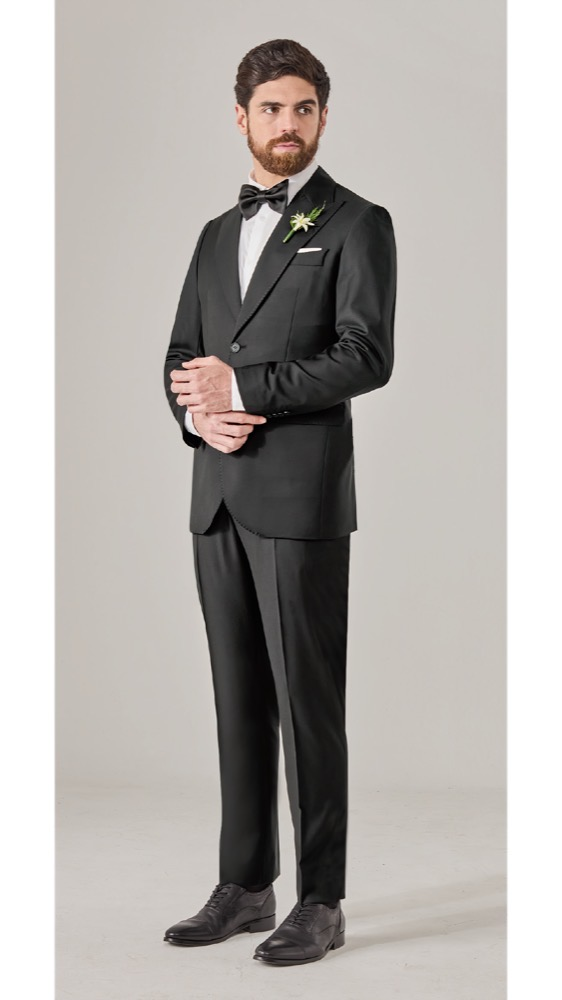
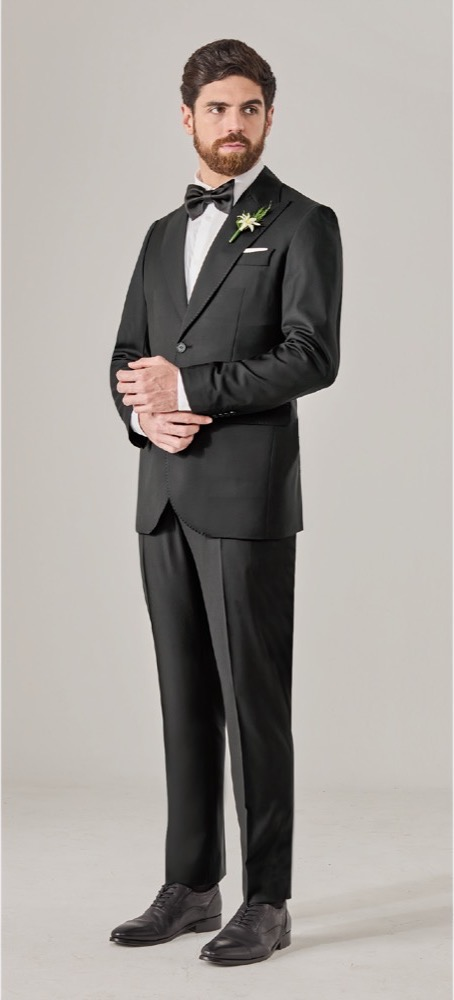
Una URL por sección, textos con los términos que se buscan y bloque más corto
Rutas (el cambio de mayor peso para SEO)
La web es de una sola página, así que Google solo podía posicionar una URL:
todo el contenido de Telas, Novios o Camisas no competía por nada. Ahora cada
sección tiene dirección propia —/telas, /trajes-de-novio, /camisas-a-medida…—
y el middleware sirve el HTML ya con su <title>, su descripción y su canonical
reescritos con HTMLRewriter, sin depender de que el rastreador ejecute JS.
El script abre la sección que pide la URL y responde al botón «atrás».

Dos defectos que esto arregla de paso:
- /robots.txt devolvía la portada entera con content-type text/html. Ahora hay
  robots.txt y sitemap.xml de verdad.
- Cualquier ruta inventada respondía 200 con la portada: contenido duplicado en
  infinitas direcciones. Ahora es 404, y /telas/ e /index.html redirigen 301.

Textos
Los H1 de las páginas interiores eran etiquetas internas —«Telas», «Camisas»,
«Corporativo»—, que no es lo que nadie escribe en un buscador. Reescritos los
ocho con el término y la ciudad. La frase emocional de Novios no se pierde:
baja al primer párrafo, que es donde funciona.

El bloque de A medida
A dos columnas la ficha vertical se iba a 630x840 px por foto y la sección se
hacía interminable. Con la foto al costado la tarjeta mide 560x380 y la prenda
se sigue viendo entera.

Las fotos
Las cuatro traje-*.jpg traían franjas blancas de 54 a 75 px a cada lado, que
se veían como un marco sucio dentro de cada tarjeta. Recortadas en origen.

diff --git a/index.html b/index.html
@@ -419,6 +419,30 @@ h1, h2, h3, h4 {
 .tarjeta-cta::after { content: "→"; transition: transform 0.3s var(--ease); }
 .tarjeta:hover .tarjeta-cta::after { transform: translateX(5px); }
 
+/* ---------- Tarjeta horizontal ----------
+   A dos columnas, una ficha vertical de proporción 3/4 se va a 630×840 px y
+   la sección se hace interminable. Con la foto al costado el mismo contenido
+   ocupa menos de la mitad de alto y la prenda se sigue viendo entera. */
+.duo {
+  display: grid; grid-template-columns: minmax(130px, 36%) 1fr; overflow: hidden;
+  background: var(--papel); border: 1px solid var(--filete);
+  min-height: clamp(280px, 30vw, 380px); cursor: pointer;
+  transition: border-color 0.35s var(--ease);
+}
+.duo:hover { border-color: var(--azul-bruma); }
+.duo-img { position: relative; overflow: hidden; background: var(--nube); }
+.duo-img img { position: absolute; inset: 0; width: 100%; height: 100%; object-fit: cover; object-position: 50% 26%; transition: transform 0.9s var(--ease); }
+.duo:hover .duo-img img { transform: scale(1.05); }
+.duo-txt { padding: clamp(1.4rem, 3vw, 2.25rem); display: flex; flex-direction: column; justify-content: center; }
+.duo-txt h3 { font-family: var(--display); font-weight: 400; font-size: 1.05rem; letter-spacing: 0.11em; text-transform: uppercase; color: var(--azul); }
+.duo-txt p { font-size: 0.86rem; font-weight: 300; color: var(--grafito); line-height: 1.75; margin-top: 0.6rem; }
+.duo-txt .enlace { margin-top: var(--e3); }
+@media (max-width: 560px) {
+  .duo { grid-template-columns: 1fr; min-height: 0; }
+  .duo-img { aspect-ratio: 4/3; }
+  .duo-img img { object-position: 50% 22%; }
+}
+
 /* ---------- Franja de medios de pago ---------- */
 .pago { display: flex; flex-wrap: wrap; align-items: center; justify-content: center; gap: 0.7rem clamp(1rem, 3vw, 2.25rem); }
 .pago b { font-family: var(--display); font-weight: 400; font-size: 0.72rem; letter-spacing: 0.24em; text-transform: uppercase; color: var(--blanco); }
@@ -1313,7 +1337,7 @@ h1, h2, h3, h4 {
     <div class="caja">
       <div class="miga"><span data-ir="inicio">Inicio</span> · A medida</div>
       <span class="rotulo">El oficio</span>
-      <h1 class="t-hero">A medida</h1>
+      <h1 class="t-hero">Sastrería a medida en Lima</h1>
       <p class="lead medida" style="margin-top:1.25rem;">No adaptamos una talla: construimos la prenda. Desde 1982, cada traje y cada camisa que sale de nuestro taller nace de un patrón hecho sobre las medidas de una sola persona.</p>
       <div class="acciones" style="margin-top:2rem;">
         <a class="btn btn-claro" href="https://wa.me/51959370397" target="_blank" rel="noopener">Agenda tu cita</a>
@@ -1357,26 +1381,26 @@ h1, h2, h3, h4 {
     <div class="caja">
       <div class="enc">
         <span class="rotulo">Las prendas</span>
-        <h2 class="t-xl">Qué confeccionamos a medida</h2>
+        <h2 class="t-xl">Ternos y camisas a medida</h2>
         <p class="lead" style="margin-top:1rem;">Dos oficios distintos bajo el mismo techo. Cada uno con su patrón, sus pruebas y sus decisiones.</p>
       </div>
       <div class="rejilla r2">
-        <article class="ficha rev" data-ir="trajes">
-          <div class="ficha-img"><img src="assets/traje-negro.jpg" alt="Traje a medida" loading="lazy"></div>
-          <div class="ficha-cuerpo doble-filete">
-            <h3>Trajes</h3>
+        <a class="duo rev" data-ir="trajes">
+          <div class="duo-img"><img src="assets/traje-negro.jpg" alt="Terno negro a medida con solapa de pico" loading="lazy"></div>
+          <div class="duo-txt">
+            <h3>Ternos y trajes</h3>
             <p>De dos y tres piezas, para la oficina, una ocasión o una gala. Esmóquines y chaqués incluidos.</p>
-            <span class="enlace" style="margin-top:0.6rem;">Ver trajes</span>
+            <span class="enlace">Ver ternos</span>
           </div>
-        </article>
-        <article class="ficha rev" data-d="1" data-ir="camisas">
-          <div class="ficha-img"><img src="assets/traje-gris.jpg" alt="Camisa a medida" loading="lazy"></div>
-          <div class="ficha-cuerpo doble-filete">
+        </a>
+        <a class="duo rev" data-d="1" data-ir="camisas">
+          <div class="duo-img"><img src="assets/traje-gris.jpg" alt="Camisa a medida bajo saco gris perla" loading="lazy"></div>
+          <div class="duo-txt">
             <h3>Camisas</h3>
             <p>Cuello, puño y silueta definidos contigo. La prenda que más contacto tiene con tu piel.</p>
-            <span class="enlace" style="margin-top:0.6rem;">Ver camisas</span>
+            <span class="enlace">Ver camisas</span>
           </div>
-        </article>
+        </a>
       </div>
     </div>
   </section>
@@ -1432,7 +1456,7 @@ h1, h2, h3, h4 {
     <div class="caja">
       <div class="miga"><span data-ir="inicio">Inicio</span> · <span data-ir="medida">A medida</span> · Trajes</div>
       <span class="rotulo">La prenda insignia</span>
-      <h1 class="t-hero">Trajes a medida</h1>
+      <h1 class="t-hero">Ternos y trajes a medida</h1>
       <p class="lead medida" style="margin-top:1.25rem;">De dos o tres piezas, para la oficina, una ocasión o una gala. Diseñados sobre tus medidas, tus gustos y la tela que elijas con nuestros sastres.</p>
     </div>
   </section>
@@ -1497,7 +1521,7 @@ h1, h2, h3, h4 {
     <div class="caja">
       <div class="miga"><span data-ir="inicio">Inicio</span> · <span data-ir="medida">A medida</span> · Camisas</div>
       <span class="rotulo">A medida</span>
-      <h1 class="t-hero">Camisas</h1>
+      <h1 class="t-hero">Camisas a medida en Lima</h1>
       <p class="lead medida" style="margin-top:1.25rem;">La prenda que está en contacto con tu piel todo el día merece un patrón propio. Cuello, puño y silueta se definen contigo.</p>
     </div>
   </section>
@@ -1548,7 +1572,7 @@ h1, h2, h3, h4 {
     <div class="caja">
       <div class="miga"><span data-ir="inicio">Inicio</span> · Telas</div>
       <span class="rotulo">Distribuidores oficiales</span>
-      <h1 class="t-hero">Telas</h1>
+      <h1 class="t-hero">Telas para ternos y camisas</h1>
       <p class="lead medida" style="margin-top:1.25rem;">Somos distribuidores oficiales de telas nacionales e importadas. Trabajamos con tejeduría peruana y con casas italianas e inglesas, a precio directo y con la asesoría de sastres que saben qué tejido pide cada prenda.</p>
     </div>
   </section>
@@ -1664,8 +1688,8 @@ h1, h2, h3, h4 {
     <div class="caja">
       <div class="miga"><span data-ir="inicio">Inicio</span> · Novios</div>
       <span class="rotulo">Experiencia novio</span>
-      <h1 class="t-hero">Todo lo que necesitas<br>para ese día, en un solo lugar</h1>
-      <p class="lead medida" style="margin-top:1.25rem;">Es el día en que más fotos te van a tomar en la vida. Del traje a los gemelos, lo resolvemos todo en el atelier, sin que tengas que ir juntando piezas de sitios distintos.</p>
+      <h1 class="t-hero">Trajes de novio<br>a medida en Lima</h1>
+      <p class="lead medida" style="margin-top:1.25rem;">Todo lo que necesitas para ese día, en un solo lugar. Es el día en que más fotos te van a tomar en la vida. Del traje a los gemelos, lo resolvemos todo en el atelier, sin que tengas que ir juntando piezas de sitios distintos.</p>
       <div class="acciones" style="margin-top:2rem;">
         <a class="btn btn-claro" href="https://wa.me/51959370397" target="_blank" rel="noopener">Agenda tu cita</a>
       </div>
@@ -1809,7 +1833,7 @@ h1, h2, h3, h4 {
     <div class="caja">
       <div class="miga"><span data-ir="inicio">Inicio</span> · Corporativo</div>
       <span class="rotulo">Para empresas</span>
-      <h1 class="t-hero">Corporativo</h1>
+      <h1 class="t-hero">Ternos y uniformes<br>corporativos a medida</h1>
       <p class="lead medida" style="margin-top:1.25rem;">Vestuario a medida para equipos y directivos. La misma confección de siempre, coordinada para varias personas.</p>
     </div>
   </section>
@@ -1894,7 +1918,7 @@ h1, h2, h3, h4 {
     <div class="caja">
       <div class="miga"><span data-ir="inicio">Inicio</span> · Blog</div>
       <span class="rotulo">Diario</span>
-      <h1 class="t-hero">Blog</h1>
+      <h1 class="t-hero">Blog de sastrería</h1>
       <p class="lead medida" style="margin-top:1.25rem;">Lo que hemos aprendido en 44 años, contado sin tecnicismos: cómo elegir, cómo cuidar y cuándo empezar.</p>
     </div>
   </section>
@@ -1957,7 +1981,7 @@ h1, h2, h3, h4 {
     <div class="caja">
       <div class="miga"><span data-ir="inicio">Inicio</span> · Tiendas</div>
       <span class="rotulo">Dónde estamos</span>
-      <h1 class="t-hero">Tiendas</h1>
+      <h1 class="t-hero">Tiendas de sastrería en Lima</h1>
       <p class="lead medida" style="margin-top:1.25rem;">Tres direcciones en Lima: una en Chacarilla, Surco, y dos en el Cercado de Lima. En todas encuentras el muestrario completo y a nuestros sastres.</p>
       <div class="acciones" style="margin-top:2rem;">
         <a class="btn btn-claro" href="https://wa.me/51959370397" target="_blank" rel="noopener">Agenda tu cita</a>
@@ -2136,8 +2160,21 @@ h1, h2, h3, h4 {
     pista.innerHTML = uno + uno + uno + uno;
   })();
 
-  function ir(nombre, ancla) {
+  /* Cada sección tiene su URL propia. El middleware ya sirve el HTML con el
+     título correcto y marca `data-ruta` en el <body>; aquí solo hay que abrir
+     esa página al cargar y mantener la barra de direcciones al día. */
+  var RUTAS = {
+    inicio: '/', medida: '/a-medida', trajes: '/ternos-a-medida',
+    camisas: '/camisas-a-medida', telas: '/telas', novios: '/trajes-de-novio',
+    corporativo: '/corporativo', tiendas: '/tiendas', blog: '/blog'
+  };
+
+  function ir(nombre, ancla, sinHistorial) {
     pags.forEach(function (p) { p.classList.toggle('activa', p.dataset.pag === nombre); });
+    var ruta = RUTAS[nombre];
+    if (ruta && !sinHistorial && location.pathname !== ruta) {
+      history.pushState({ pagina: nombre }, '', ruta);
+    }
     // Trajes y Camisas cuelgan de "A medida", así que marcan ese ítem del menú
     var padre = { trajes: 'medida', camisas: 'medida' }[nombre] || nombre;
     menuLinks.forEach(function (a) { a.classList.toggle('on', a.dataset.ir === padre); });
@@ -2734,6 +2771,17 @@ h1, h2, h3, h4 {
 
     ir(0);
     arrancar();
+  })();
+
+  // Abrir la sección que pide la URL, y responder al botón «atrás».
+  (function () {
+    var inicial = document.body.dataset.ruta || 'inicio';
+    if (inicial !== 'inicio') ir(inicial, null, true);
+    window.addEventListener('popstate', function () {
+      var destino = 'inicio';
+      for (var k in RUTAS) { if (RUTAS[k] === location.pathname) { destino = k; break; } }
+      ir(destino, null, true);
+    });
   })();
 
   animar(document.querySelector('.pagina[data-pag="inicio"]'));

diff --git a/functions/_middleware.js b/functions/_middleware.js
@@ -3,22 +3,140 @@
  * viva aquí queda accesible por URL. Las reglas de `_redirects` NO sirven para
  * esto: los archivos estáticos tienen prioridad sobre ellas y se sirven igual.
  *
- * Este middleware sí se ejecuta antes que el archivo estático, así que es el
- * lugar correcto para bloquear la documentación interna del proyecto.
+ * Este middleware sí se ejecuta antes que el archivo estático, así que hace
+ * tres cosas:
+ *
+ *  1. Bloquea la documentación interna del proyecto.
+ *  2. Da a cada sección su propia URL con su propio <title> y descripción,
+ *     reescritos AQUÍ y no en el navegador. La web es de una sola página; sin
+ *     esto Google solo puede posicionar una URL y el resto del contenido no
+ *     compite por nada.
+ *  3. Devuelve 404 de verdad en lo que no existe. Antes cualquier ruta
+ *     inventada respondía 200 con la portada entera: contenido duplicado en
+ *     infinitas direcciones, que es peor que no tener rutas.
  */
+
 const BLOQUEADO = [
   /^\/(CLAUDE|NOTAS|DESIGN-SYSTEM|README)\.md$/i,
   /^\/pauta(\/|$)/i,
   /^\/\.git(\/|$)/i,
 ];
 
+const SITIO = 'https://andres-vargas-web.pages.dev';
+
+/* Cada ruta apunta a la página interna que abre el script y lleva el texto con
+   el que se presenta en buscadores. Los títulos abren con el término que la
+   gente escribe —en Perú «terno», no «traje»— y dejan la marca al final. */
+const RUTAS = {
+  '/': {
+    pagina: 'inicio',
+    titulo: 'Ternos y Trajes a Medida en Lima | Sastrería Andrés Vargas',
+    desc: 'Sastrería en Lima desde 1982. Ternos, trajes y camisas a medida, traje de novio y vestuario corporativo. Tres tiendas. Escríbenos por WhatsApp.',
+  },
+  '/a-medida': {
+    pagina: 'medida',
+    titulo: 'Sastrería a Medida en Lima | Andrés Vargas',
+    desc: 'Cómo se construye una prenda a medida: patrón propio sobre tus medidas, pruebas y elección de tela con nuestros sastres. En Lima desde 1982.',
+  },
+  '/ternos-a-medida': {
+    pagina: 'trajes',
+    titulo: 'Ternos y Trajes a Medida en Lima | Andrés Vargas',
+    desc: 'Ternos de dos y tres piezas, esmóquines y chaqués a medida, confeccionados en nuestro taller de Lima sobre tus medidas y la tela que elijas.',
+  },
+  '/camisas-a-medida': {
+    pagina: 'camisas',
+    titulo: 'Camisas a Medida en Lima | Andrés Vargas',
+    desc: 'Camisas a medida con patrón propio: cuello, puño y silueta se definen contigo. Sastrería en Lima desde 1982, con tres tiendas.',
+  },
+  '/telas': {
+    pagina: 'telas',
+    titulo: 'Telas para Ternos y Camisas en Lima | Andrés Vargas',
+    desc: 'Distribuidores oficiales de telas nacionales e importadas: tejeduría peruana y casas italianas e inglesas, con asesoría de sastres.',
+  },
+  '/trajes-de-novio': {
+    pagina: 'novios',
+    titulo: 'Trajes de Novio a Medida en Lima | Andrés Vargas',
+    desc: 'El traje del novio y el de su cortejo, resueltos en un solo lugar: de la primera medida a los gemelos. Experiencia de novios en Chacarilla, Surco.',
+  },
+  '/corporativo': {
+    pagina: 'corporativo',
+    titulo: 'Ternos y Uniformes Corporativos a Medida | Andrés Vargas',
+    desc: 'Vestuario a medida para equipos y directivos, con la misma confección de siempre coordinada para varias personas. Sastrería en Lima desde 1982.',
+  },
+  '/tiendas': {
+    pagina: 'tiendas',
+    titulo: 'Tiendas de Sastrería en Lima | Andrés Vargas',
+    desc: 'Tres tiendas en Lima: Jr. Ucayali 115, 119 y 121 y Jr. Huallaga 558 y 570 en el Cercado, y Av. Primavera 252, Chacarilla, en Surco.',
+  },
+  '/blog': {
+    pagina: 'blog',
+    titulo: 'Blog de Sastrería | Andrés Vargas',
+    desc: 'Cómo elegir, cómo cuidar y cuándo empezar. Lo que hemos aprendido en 44 años de oficio, contado sin tecnicismos.',
+  },
+};
+
+/* Reescribe el <head> al vuelo. Hacerlo aquí y no en el navegador importa:
+   así el título correcto ya viene en el HTML, sin depender de que el rastreador
+   ejecute JavaScript. */
+class Meta {
+  constructor(ruta, url) { this.r = ruta; this.url = url; }
+  element(el) {
+    const t = el.tagName;
+    if (t === 'title') { el.setInnerContent(this.r.titulo); return; }
+    const name = el.getAttribute('name');
+    const prop = el.getAttribute('property');
+    const rel = el.getAttribute('rel');
+    if (name === 'description') el.setAttribute('content', this.r.desc);
+    else if (prop === 'og:title') el.setAttribute('content', this.r.titulo);
+    else if (prop === 'og:description') el.setAttribute('content', this.r.desc);
+    else if (prop === 'og:url') el.setAttribute('content', this.url);
+    else if (rel === 'canonical') el.setAttribute('href', this.url);
+  }
+}
+
+/* Marca en el <body> qué sección abrir, para que el script no tenga que
+   deducirla de la URL por su cuenta. */
+class Cuerpo {
+  constructor(pagina) { this.pagina = pagina; }
+  element(el) { el.setAttribute('data-ruta', this.pagina); }
+}
+
 export async function onRequest(context) {
-  const ruta = new URL(context.request.url).pathname;
+  const url = new URL(context.request.url);
+  let ruta = url.pathname;
+
   if (BLOQUEADO.some((re) => re.test(ruta))) {
     return new Response('Not Found', {
       status: 404,
       headers: { 'content-type': 'text/plain; charset=utf-8' },
     });
   }
-  return context.next();
+
+  // Sin barra final, salvo la raíz: /telas/ y /telas no pueden ser dos URLs.
+  if (ruta.length > 1 && ruta.endsWith('/')) {
+    return Response.redirect(SITIO + ruta.slice(0, -1) + url.search, 301);
+  }
+  // /index.html sería una segunda dirección para la portada.
+  if (ruta === '/index.html') return Response.redirect(SITIO + '/' + url.search, 301);
+
+  const conf = RUTAS[ruta];
+  if (conf) {
+    const res = await context.env.ASSETS.fetch(new URL('/index.html', url));
+    const html = new Response(res.body, res);
+    html.headers.set('content-type', 'text/html; charset=utf-8');
+    return new HTMLRewriter()
+      .on('title, meta, link[rel="canonical"]', new Meta(conf, SITIO + (ruta === '/' ? '/' : ruta)))
+      .on('body', new Cuerpo(conf.pagina))
+      .transform(html);
+  }
+
+  // Archivos reales (assets, robots.txt, sitemap.xml, favicon…) siguen su curso.
+  const esArchivo = /\.[a-z0-9]+$/i.test(ruta);
+  if (esArchivo) return context.next();
+
+  // Cualquier otra cosa no existe. Antes devolvía la portada con 200.
+  return new Response('Not Found', {
+    status: 404,
+    headers: { 'content-type': 'text/plain; charset=utf-8' },
+  });
 }
